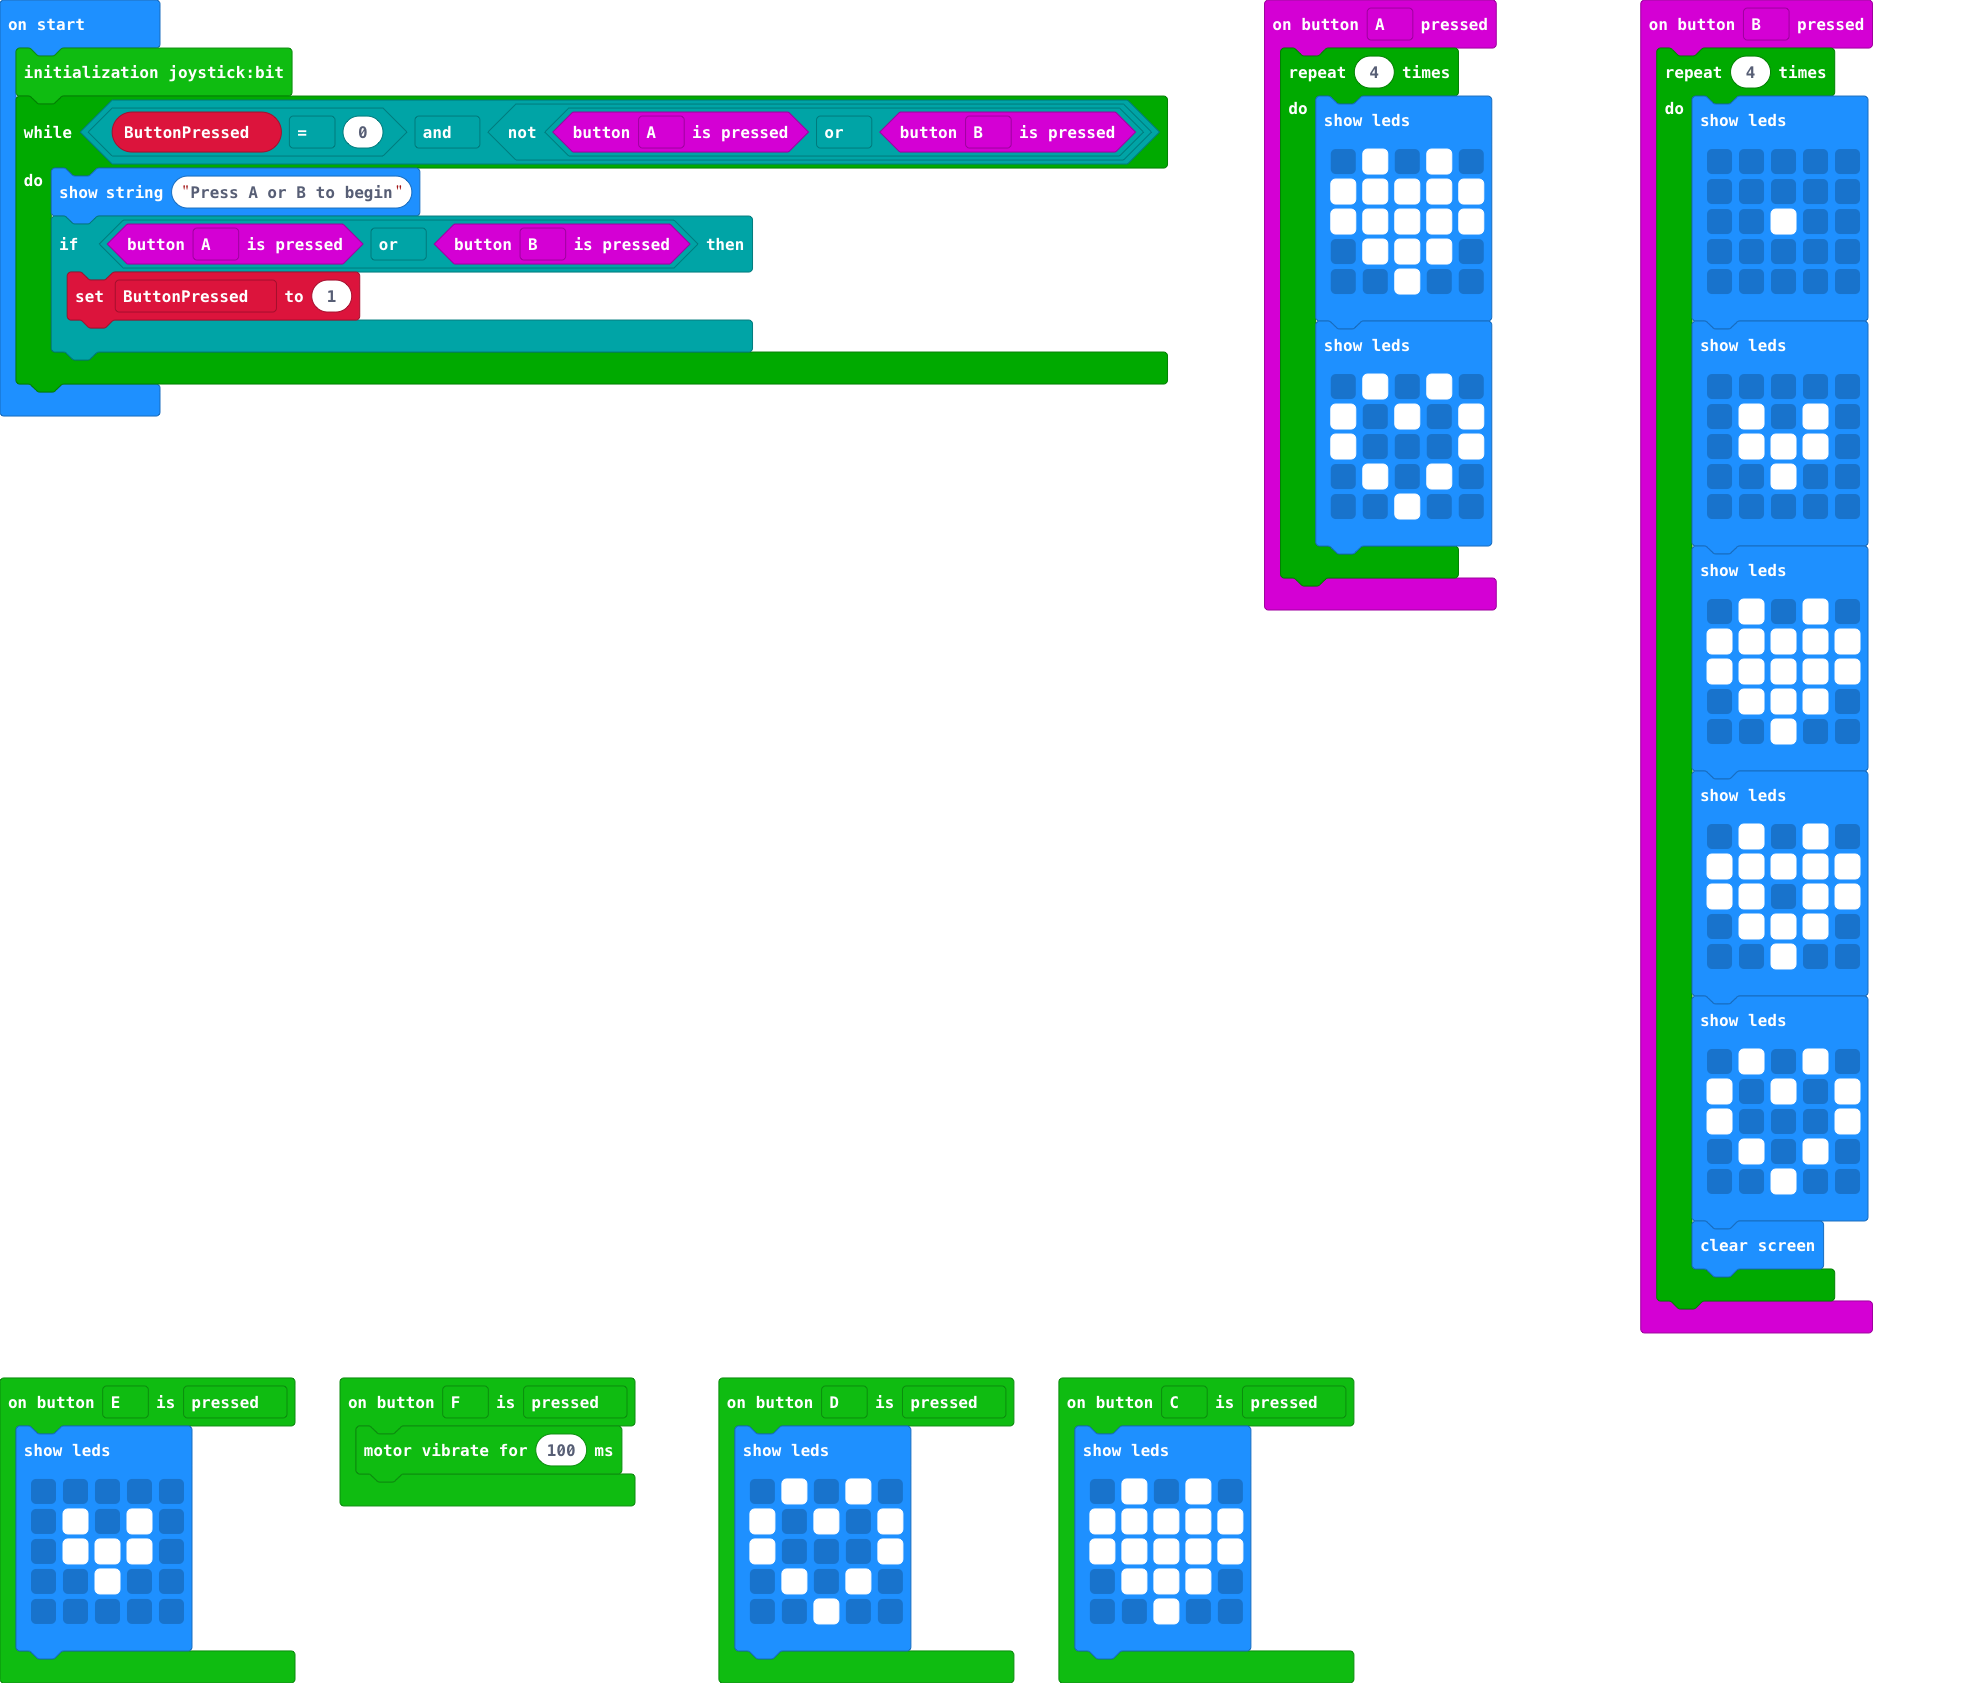
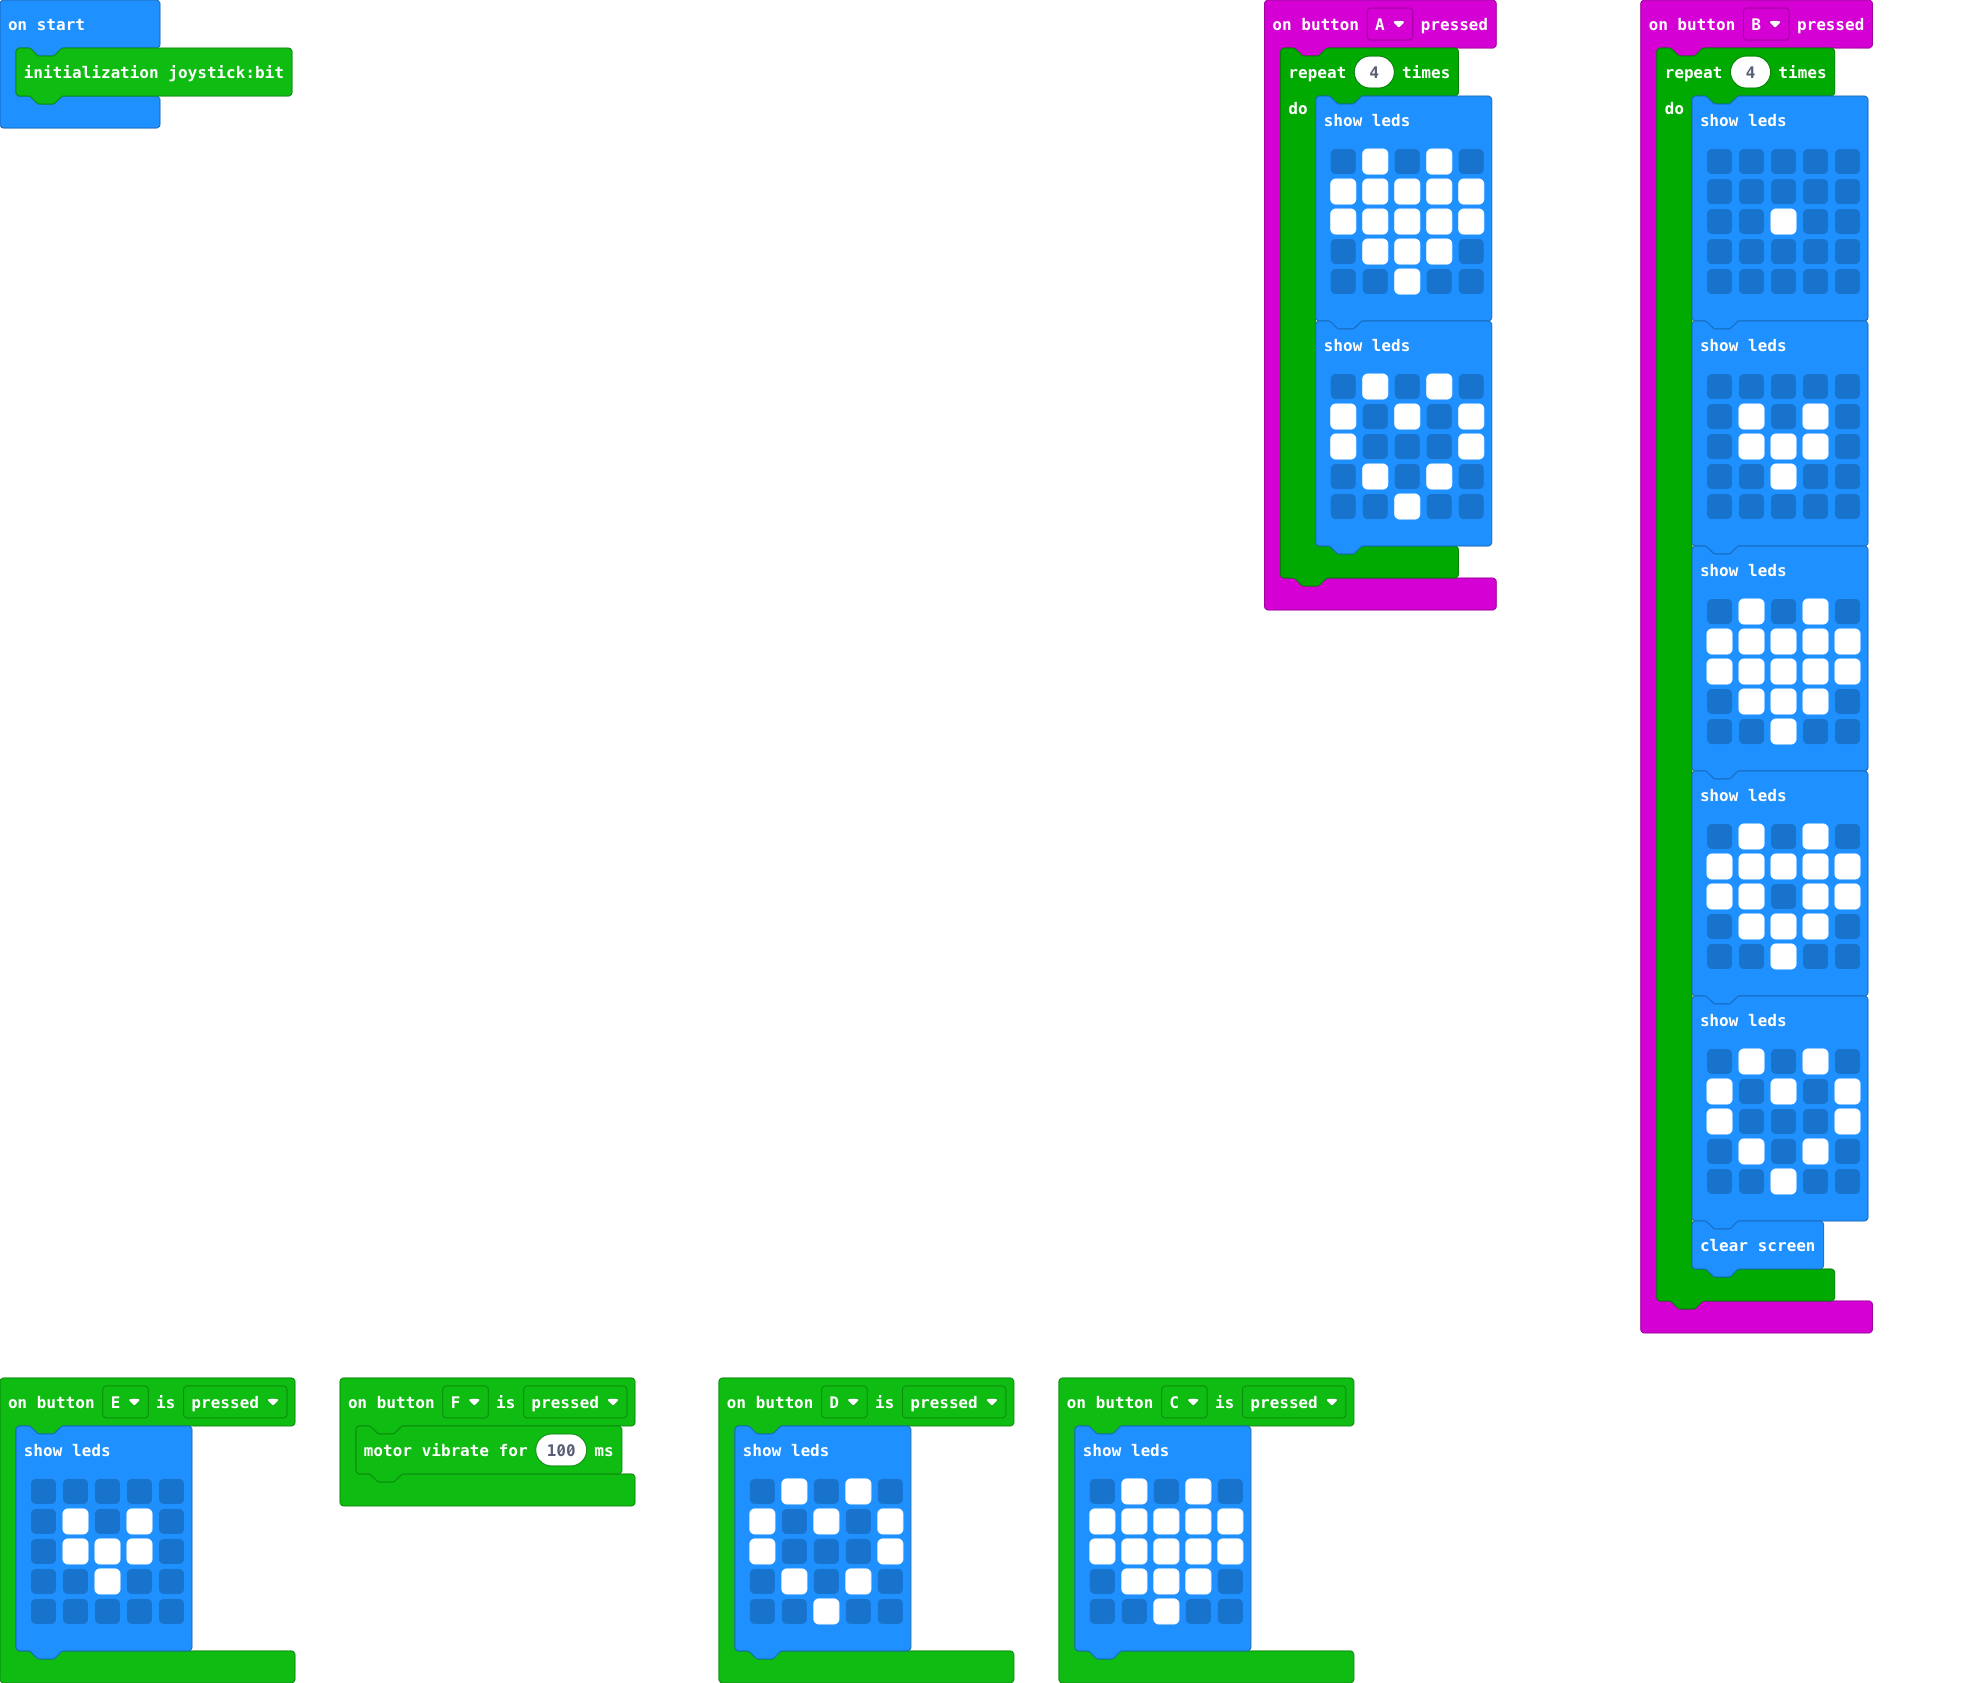
Startup removed to help whith bug

Changed region(s): [[0.0, 0.0309, 0.6187, 0.2472]]

diff --git a/main.ts b/main.ts
@@ -86,11 +86,4 @@ joystickbit.onButtonEvent(joystickbit.JoystickBitPin.P12, joystickbit.ButtonType
         . . # . .
         `)
 })
-let ButtonPressed = 0
 joystickbit.initJoystickBit()
-while (ButtonPressed == 0 && !(input.buttonIsPressed(Button.A) || input.buttonIsPressed(Button.B))) {
-    basic.showString("Press A or B to begin")
-    if (input.buttonIsPressed(Button.A) || input.buttonIsPressed(Button.B)) {
-        ButtonPressed = 1
-    }
-}
